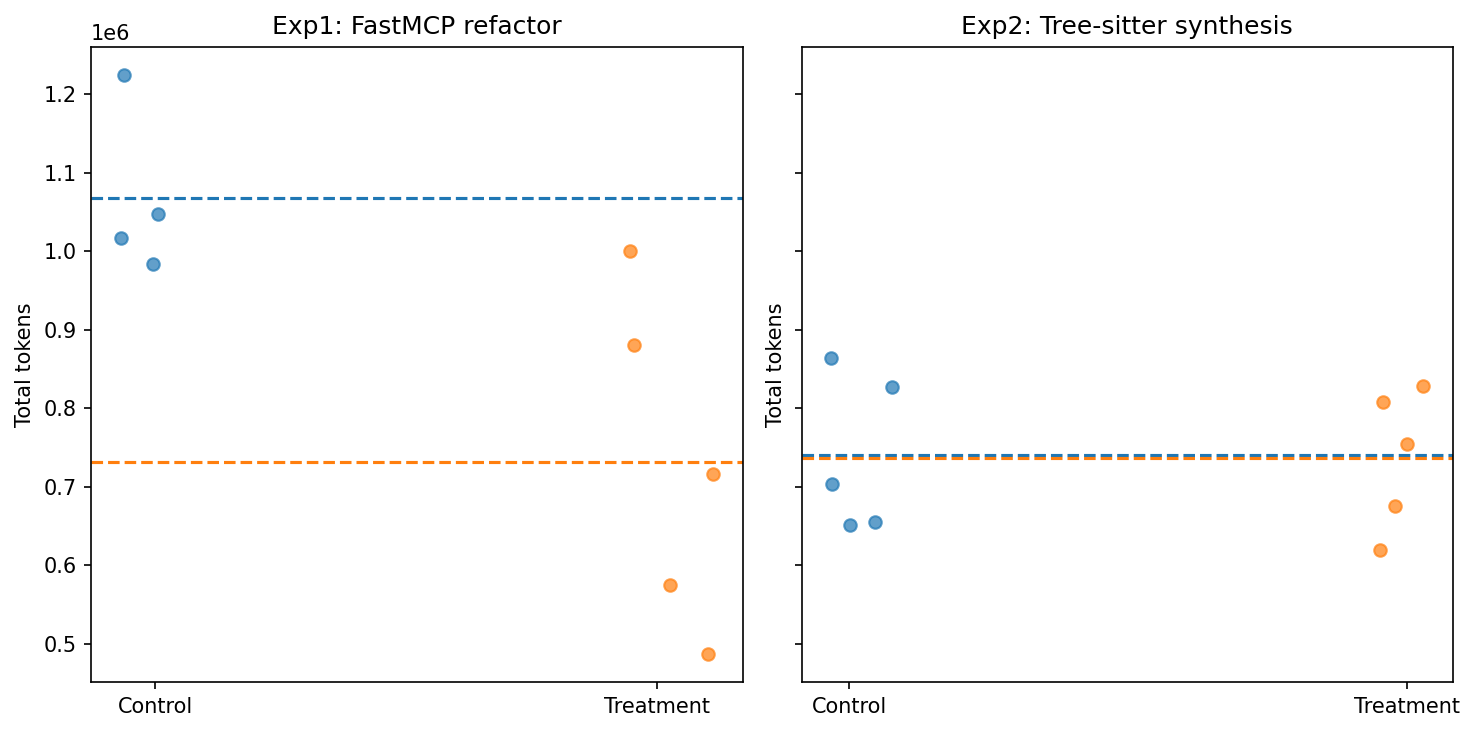
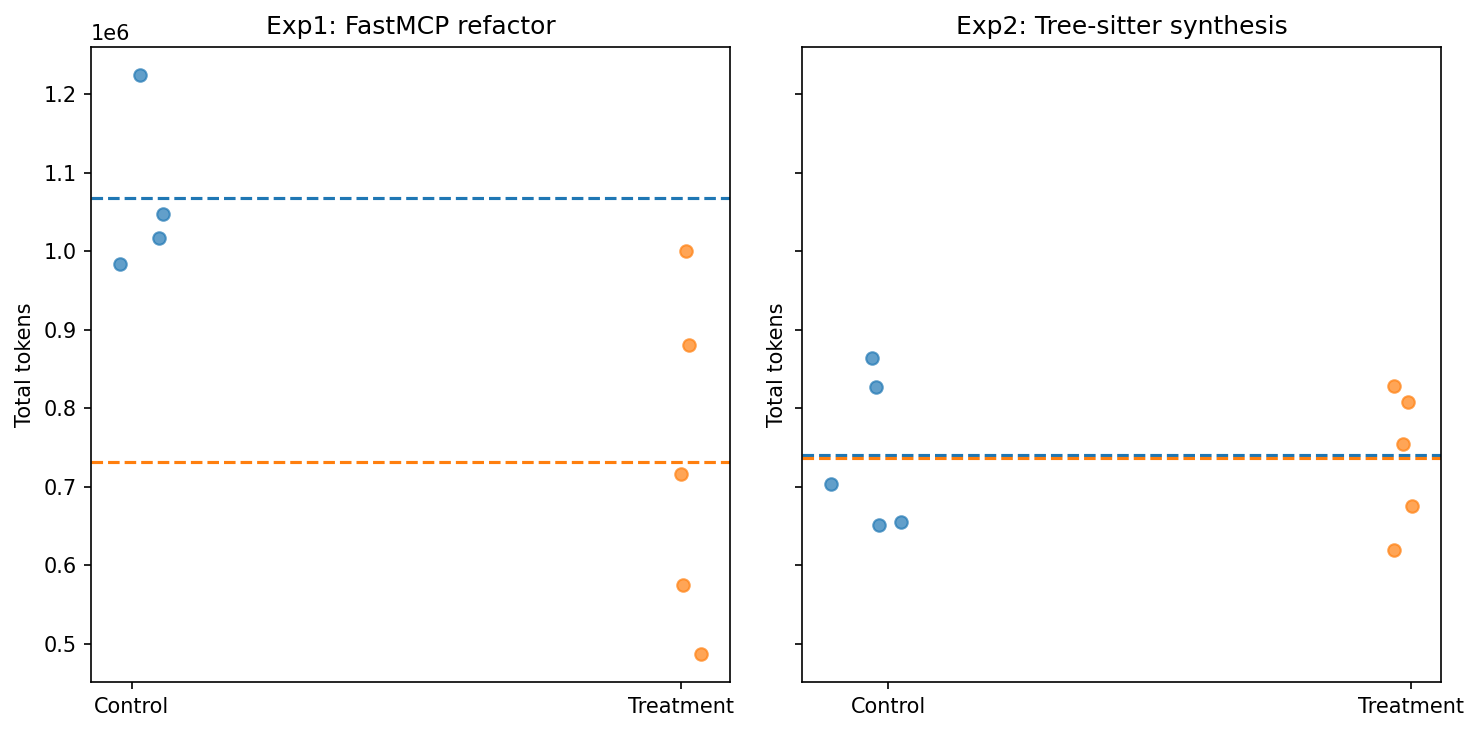
fix(figures): correctly plot drift failure outlier in fig3 message counts

diff --git a/figures/fig3-message-counts.py b/figures/fig3-message-counts.py
@@ -10,51 +10,70 @@ exp2_path = os.path.join('experiments', 'exp2-treesitter-synthesis', 'efficiency
 
 
 def load_messages(path):
+    """Load messages from the given efficiency.json file.
+    Returns three lists:
+        ctrl_valid: messages from valid control runs
+        ctrl_invalid: messages from invalid control runs (e.g., drift failures)
+        treat_valid: messages from valid treatment runs
+    """
     with open(path, 'r') as f:
         data = json.load(f)
-    ctrl = []
-    treat = []
+    ctrl_valid = []
+    ctrl_invalid = []
+    treat_valid = []
     for run in data['runs']:
-        if run.get('valid', True) is False:
-            continue
-        if run['group'] == 'control':
-            ctrl.append(run['messages'])
-        elif run['group'] == 'treatment':
-            treat.append(run['messages'])
-    return ctrl, treat
+        group = run.get('group')
+        valid = run.get('valid', True)
+        msgs = run.get('messages')
+        if group == 'control':
+            if valid:
+                ctrl_valid.append(msgs)
+            else:
+                ctrl_invalid.append(msgs)
+        elif group == 'treatment':
+            if valid:
+                treat_valid.append(msgs)
+            # Invalid treatment runs are ignored
+    return ctrl_valid, ctrl_invalid, treat_valid
 
-ctrl1, treat1 = load_messages(exp1_path)
-ctrl2, treat2 = load_messages(exp2_path)
+ctrl1_valid, ctrl1_invalid, treat1 = load_messages(exp1_path)
+ctrl2_valid, ctrl2_invalid, treat2 = load_messages(exp2_path)
 
 fig, axs = plt.subplots(1, 2, figsize=(10,5), sharey=True)
 colors = {'control': '#1f77b4', 'treatment': '#ff7f0e'}
 
 
-def plot(ax, ctrl, treat, title, outlier=None):
+def plot(ax, ctrl_valid, ctrl_invalid, treat, title):
     jitter = 0.05
-    x_ctrl = np.random.normal(0, jitter, size=len(ctrl))
+    # Jitter for valid control points
+    x_ctrl = np.random.normal(0, jitter, size=len(ctrl_valid))
+    # Jitter for treatment points
     x_treat = np.random.normal(1, jitter, size=len(treat))
-    ax.scatter(x_ctrl, ctrl, color=colors['control'], label='Control', alpha=0.7)
+    # Plot valid control runs
+    ax.scatter(x_ctrl, ctrl_valid, color=colors['control'], label='Control', alpha=0.7)
+    # Plot treatment runs
     ax.scatter(x_treat, treat, color=colors['treatment'], label='Treatment', alpha=0.7)
-    # mean lines
-    ax.axhline(np.mean(ctrl), color=colors['control'], linestyle='--')
-    ax.axhline(np.mean(treat), color=colors['treatment'], linestyle='--')
+    # Plot invalid control runs (outliers) as red X
+    if ctrl_invalid:
+        # Position them at x=0 with a small jitter
+        x_invalid = np.random.normal(0, jitter, size=len(ctrl_invalid))
+        ax.scatter(x_invalid, ctrl_invalid, color='red', marker='x', s=80, zorder=5, label='Invalid')
+        for xv, yv in zip(x_invalid, ctrl_invalid):
+            ax.text(xv, yv, 'drift failure', color='red', fontsize=8, ha='center', va='bottom')
+    # Mean lines for valid runs only
+    if ctrl_valid:
+        ax.axhline(np.mean(ctrl_valid), color=colors['control'], linestyle='--')
+    if treat:
+        ax.axhline(np.mean(treat), color=colors['treatment'], linestyle='--')
     ax.set_xticks([0,1])
     ax.set_xticklabels(['Control','Treatment'])
     ax.set_ylabel('Messages per run')
     ax.set_title(title)
-    if outlier is not None:
-        # outlier is (value, index) within control list
-        val, idx = outlier
-        # find x position for that point (first control point)
-        x_pos = x_ctrl[idx]
-        ax.scatter(x_pos, val, color='red', marker='x', s=80, zorder=5)
-        ax.text(x_pos, val, 'drift failure', color='red', fontsize=8, ha='center', va='bottom')
 
-# Identify outlier index (first control entry is drift failure 93)
-outlier_idx = 0  # assuming ctrl1[0] is 93
-plot(axs[0], ctrl1, treat1, 'Exp1: FastMCP refactor', outlier=(ctrl1[outlier_idx], outlier_idx))
-plot(axs[1], ctrl2, treat2, 'Exp2: Tree-sitter synthesis')
+# Plot experiments1 with both valid and invalid control runs
+plot(axs[0], ctrl1_valid, ctrl1_invalid, treat1, 'Exp1: FastMCP refactor')
+# Plot experiment2 (no invalid control runs)
+plot(axs[1], ctrl2_valid, ctrl2_invalid, treat2, 'Exp2: Tree-sitter synthesis')
 
 plt.tight_layout()
 out_path = os.path.join('figures', 'fig3-message-counts.png')

diff --git a/figures/fig2-criterion-pass-rates.py b/figures/fig2-criterion-pass-rates.py
@@ -1,46 +1,66 @@
-import json
-import os
 import matplotlib
 matplotlib.use('Agg')
 import matplotlib.pyplot as plt
+import matplotlib.patches as mpatches
 import numpy as np
 
-analysis_path = os.path.join('experiments', 'exp1-fastmcp-refactor', 'analysis.json')
+# Criterion pass rates read from analysis.json for both experiments.
+# Exp1: C1-C6 (9 valid runs, control-1 drift excluded).
+# Exp2: C1-C7 (10 runs, all valid -- ceiling effect).
+# Exp1 has no C7; represented as NaN and rendered as a hatched N/A cell.
 
-with open(analysis_path, 'r') as f:
-    data = json.load(f)
+criteria = ['C1', 'C2', 'C3', 'C4', 'C5', 'C6', 'C7']
 
-criterion_data = data['criterion_pass_rates']
-labels = []
-rates = []
-err_low = []
-err_high = []
-colors = []
-for crit_key in sorted(criterion_data.keys()):
-    crit = criterion_data[crit_key]
-    labels.append(crit_key)
-    rate = crit['pass_rate']
-    rates.append(rate)
-    low = crit['wilson_low']
-    high = crit['wilson_high']
-    err_low.append(rate - low)
-    err_high.append(high - rate)
-    # color green for perfect, orange otherwise
-    colors.append('#2ca02c' if rate == 1.0 else '#ff7f0e')
+rows = [
+    'Exp1: FastMCP refactor\n(n=9 valid)',
+    'Exp2: Tree-sitter synthesis\n(n=10)',
+]
 
-fig, ax = plt.subplots(figsize=(8, 6))
+data = np.array([
+    [1.0,  1.0,  1.0,  1.0,  0.67, 1.0,  np.nan],  # Exp1 C1-C6; C7 N/A
+    [1.0,  1.0,  1.0,  1.0,  1.0,  1.0,  1.0   ],  # Exp2 C1-C7
+])
 
-bars = ax.bar(labels, rates, color=colors, edgecolor='black')
-# add error bars
-ax.errorbar(labels, rates, yerr=[err_low, err_high], fmt='none', ecolor='black', capsize=5)
+fig, ax = plt.subplots(figsize=(9, 3))
 
-ax.set_ylabel('Pass rate (0-1)')
-ax.set_ylim(0, 1.15)
-ax.set_title('Exp1 criterion pass rates with 95% Wilson CIs')
-# annotation for Exp2 ceiling effect
-ax.text(0.5, 1.05, 'Exp2: All 7 criteria at 100% pass rate (ceiling effect, n=10)',
-        transform=ax.transAxes, ha='center', va='center')
+# Mask NaN for imshow
+masked = np.ma.masked_invalid(data)
+cmap = plt.get_cmap('RdYlGn')
+cmap.set_bad('#cccccc')
+im = ax.imshow(masked, cmap=cmap, vmin=0, vmax=1, aspect='auto')
+
+ax.set_xticks(range(len(criteria)))
+ax.set_xticklabels(criteria, fontsize=11)
+ax.set_yticks(range(len(rows)))
+ax.set_yticklabels(rows, fontsize=10)
+ax.set_xlabel('Criterion', fontsize=11)
+
+# Cell annotations
+for i in range(len(rows)):
+    for j in range(len(criteria)):
+        val = data[i, j]
+        if np.isnan(val):
+            # Hatch over the grey bad-color cell
+            ax.add_patch(mpatches.Rectangle(
+                (j - 0.5, i - 0.5), 1, 1,
+                fill=True, facecolor='#cccccc', edgecolor='black', hatch='//', linewidth=0
+            ))
+            ax.text(j, i, 'N/A', ha='center', va='center', fontsize=10, color='black')
+        else:
+            text_color = 'white' if val < 0.4 else 'black'
+            ax.text(j, i, f'{val:.0%}', ha='center', va='center',
+                    fontsize=11, color=text_color, fontweight='bold')
+
+plt.colorbar(im, ax=ax, label='Pass rate (0.0 = never, 1.0 = always)', shrink=0.8)
+
+ax.set_title('Criterion pass rates by experiment', fontsize=12, pad=10)
+
+fig.text(
+    0.5, -0.06,
+    'Exp1 C5: 67% [35\u201388% Wilson CI]. All other non-N/A cells: 100% [\u226570% Wilson lower bound].',
+    ha='center', fontsize=9, style='italic'
+)
 
 plt.tight_layout()
-out_path = os.path.join('figures', 'fig2-criterion-pass-rates.png')
-plt.savefig(out_path, dpi=150, bbox_inches='tight')
+plt.savefig('figures/fig2-criterion-pass-rates.png', dpi=150, bbox_inches='tight')
+print('Saved figures/fig2-criterion-pass-rates.png')
